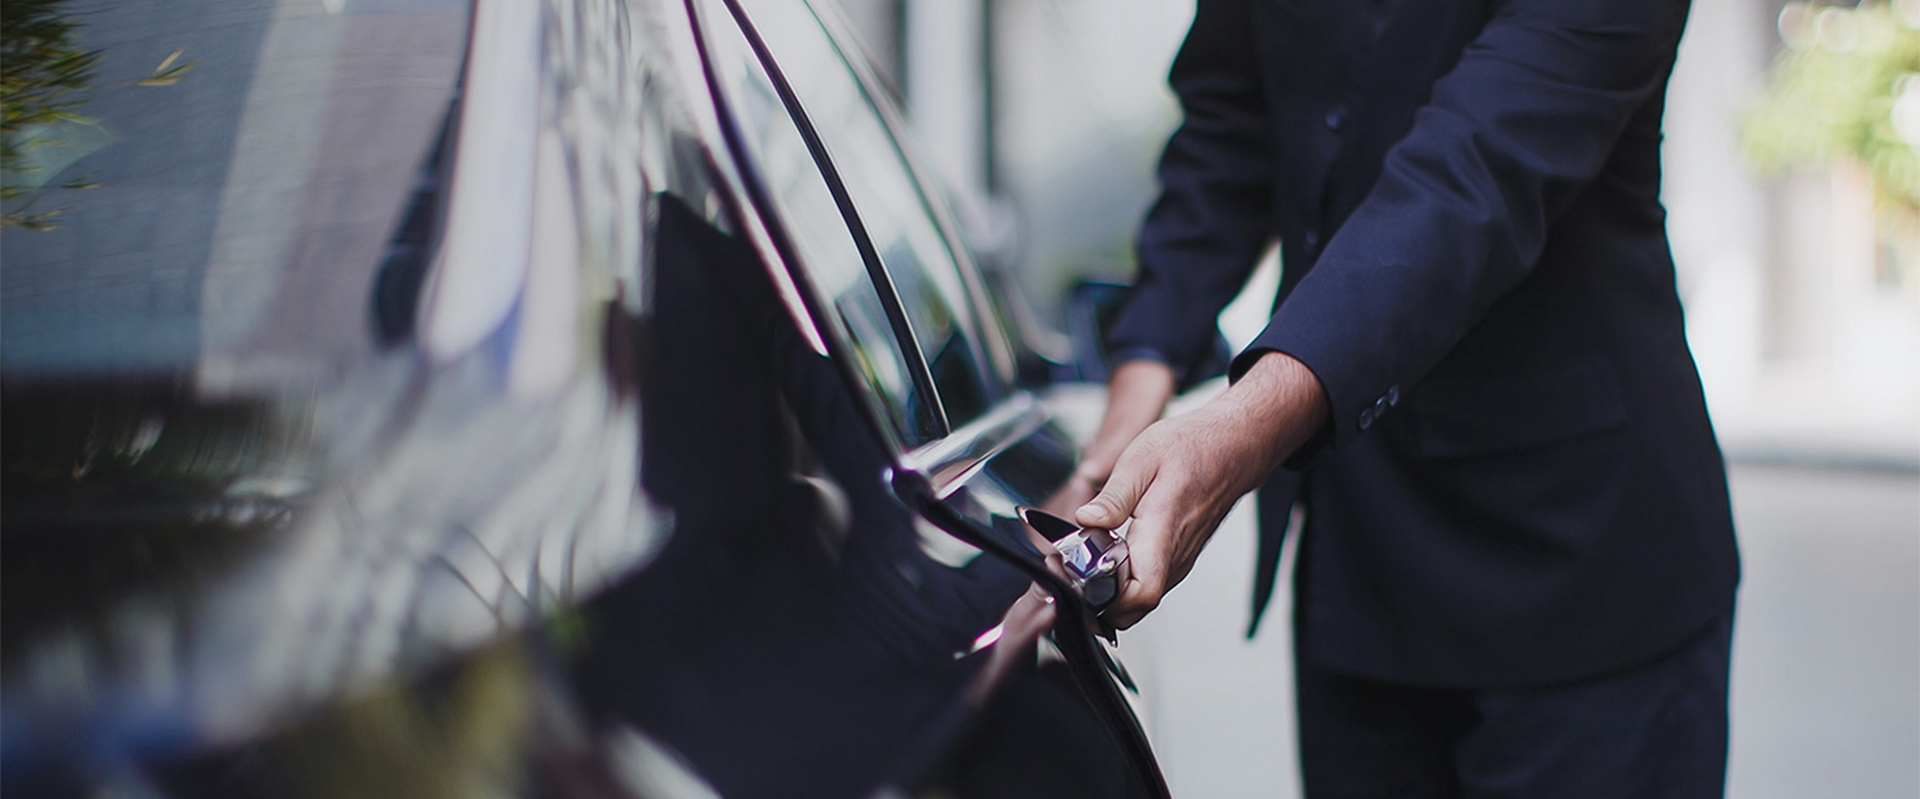
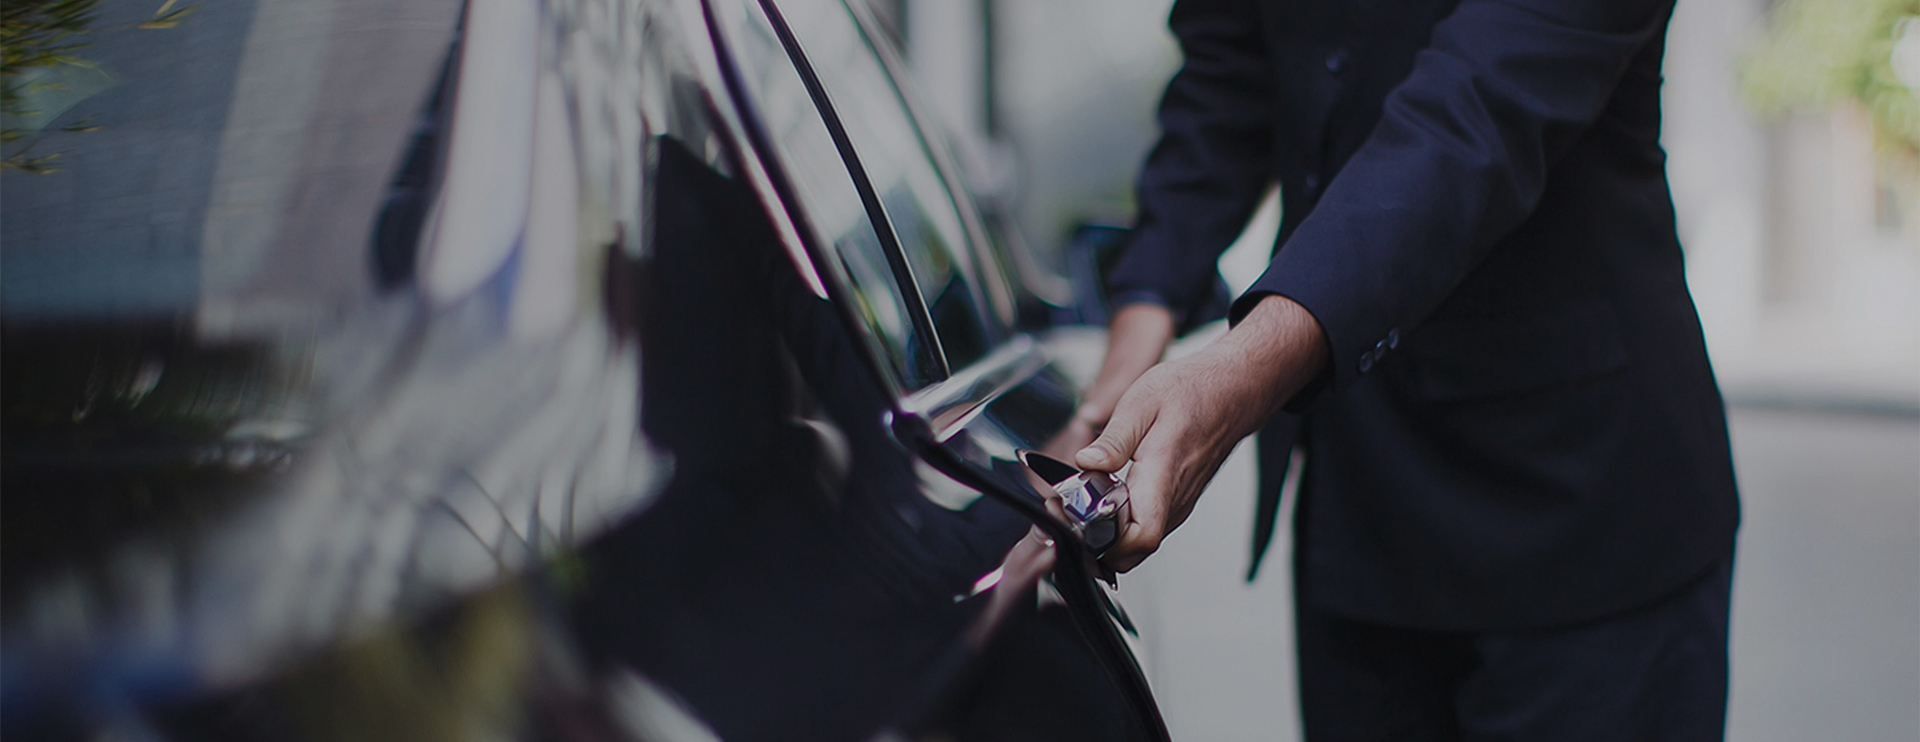
promo

diff --git a/index.html b/index.html
@@ -9,9 +9,6 @@
     <link
       rel="stylesheet"
       href="https://cdnjs.cloudflare.com/ajax/libs/normalize/8.0.1/normalize.min.css"
-      integrity="sha512-NhSC1YmyruXifcj/KFRWoC561YpHpc5Jtzgvbuzx5VozKpWvQ+4nXhPdFgmx8xqexRcpAglTj9sIBWINXa8x5w=="
-      crossorigin="anonymous"
-      referrerpolicy="no-referrer"
     />
     <link rel="stylesheet" href="./css/style.min.css" />
   </head>
@@ -32,25 +29,46 @@
         </nav>
       </div>
     </header>
-    <div class="subheader">
-      <div class="container">
-        <div class="subheader_wrapper">
-          <div class="wrapper_logo">
-            <div class="logo">
-              <img src="./img/logo_subheader.png" alt="#" class="logo_img" />
-              <span class="logo_text">uber777.moscow</span>
+    <section class="promo">
+      <div class="subheader">
+        <div class="container">
+          <div class="subheader_wrapper">
+            <div class="wrapper_logo">
+              <div class="logo">
+                <img src="./img/logo_subheader.png" alt="#" class="logo_img" />
+                <span class="logo_text">uber777.moscow</span>
+              </div>
+              <div class="subheader_text">
+                Официальный партнер Uber в Москве
+              </div>
             </div>
-            <div class="subheader_text">Официальный партнер Uber в Москве</div>
-          </div>
-          <div class="contact">
-            <address>
-              <div class="contact_text">Звоните нам ежедневно</div>
-              <div class="address">8 495 797 09 88</div>
-            </address>
-            <button class="contact_btn">заказать звонок</button>
+            <div class="contact">
+              <address>
+                <div class="contact_text">Звоните нам ежедневно</div>
+                <div class="address">8 495 797 09 88</div>
+              </address>
+              <button class="contact_btn">заказать звонок</button>
+            </div>
           </div>
         </div>
       </div>
-    </div>
+      <div class="container">
+        <h1 class="promo_header">КОМПАНИЯ UBER PARTNERS!</h1>
+        <h2 class="promo_subheader">ПРИГЛАШАЕМ ВОДИТЕЛЕЙ! НА СВОЕМ АВТО!</h2>
+        <div class="promo_descr">
+          Компания UBER динамически развивающаяся. Компания на рынке занимает
+          лидирующее место среди таксомоторных компаний, Компания абсолютно
+          прозрачная вы можете контролировать все процессы у себя в личном
+          кабинете. Бонуcная система.Помимо выполненной работы по заказам,
+          компания начисляет бонусы за пиковое время.
+          <div class="promo_descr_text">
+            Мы одни из партнеров и зарекомендовали себя как одна из лучших
+            команд в городе Москве. Водители у нас зарабатывают от 80000- 120000
+            в месяц.
+          </div>
+        </div>
+        <button class="promo_btn">ОТПРАВИТЬ ЗАЯВКУ!</button>
+      </div>
+    </section>
   </body>
 </html>

diff --git a/css/style.min.css b/css/style.min.css
@@ -3,6 +3,7 @@
   padding: 0;
   -webkit-box-sizing: border-box;
           box-sizing: border-box;
+  font-family: 'Roboto';
 }
 
 .container {
@@ -44,6 +45,9 @@ header .menu_element:not(.start) {
 }
 
 .subheader {
+  position: absolute;
+  top: 0;
+  width: 100%;
   height: 84px;
   background-color: rgba(0, 0, 0, 0.6);
   padding: 16px 0 16px 0;
@@ -126,5 +130,60 @@ header .menu_element:not(.start) {
   width: 178px;
   height: 52px;
   margin-left: 30px;
+}
+
+.promo {
+  position: relative;
+  background: url("../img/bg_banner.jpg") center center/cover no-repeat;
+  height: 748px;
+  padding: 151px 0 132px 0;
+  text-align: center;
+}
+
+.promo_header {
+  font-size: 60px;
+  font-weight: 900;
+  margin: 0;
+  text-transform: uppercase;
+  color: #ffffff;
+}
+
+.promo_subheader {
+  margin-top: 22px;
+  font-size: 36px;
+  font-weight: 700;
+  text-transform: uppercase;
+  color: #ffffff;
+}
+
+.promo_descr {
+  font-size: 18px;
+  line-height: 24px;
+  font-weight: 400;
+  color: #ffffff;
+  margin-top: 23px;
+}
+
+.promo_descr_text {
+  margin-top: 37px;
+}
+
+.promo_btn {
+  font-family: 'Roboto';
+  background-image: -webkit-gradient(linear, left bottom, left top, from(#1eacc7), to(#4ce2ff));
+  background-image: linear-gradient(0deg, #1eacc7 0%, #4ce2ff 100%);
+  border: 0px solid rgba(0, 0, 0, 0.06);
+  border-radius: 5px;
+  -webkit-box-shadow: inset 0px -3px 0px 0px rgba(0, 0, 0, 0.11);
+          box-shadow: inset 0px -3px 0px 0px rgba(0, 0, 0, 0.11);
+  color: #ffffff;
+  text-shadow: 1px 1px 0px rgba(0, 0, 0, 0.2);
+  font-weight: 400;
+  text-transform: uppercase;
+  cursor: pointer;
+  width: 265px;
+  height: 69px;
+  font-size: 18px;
+  margin-top: 115px;
 }
 /*# sourceMappingURL=style.min.css.map */

diff --git a/scss/style.scss b/scss/style.scss
@@ -15,6 +15,7 @@
   margin: 0;
   padding: 0;
   box-sizing: border-box;
+  font-family: 'Roboto';
 }
 
 .container {
@@ -48,6 +49,9 @@ header {
 }
 
 .subheader {
+  position: absolute;
+  top: 0;
+  width: 100%;
   height: 84px;
   background-color: rgba(0, 0, 0, 0.6);
   padding: 16px 0 16px 0;
@@ -106,5 +110,44 @@ header {
         margin-left: 30px;
       }
     }
+  }
+}
+
+.promo {
+  position: relative;
+  background: url('../img/bg_banner.jpg') center center / cover no-repeat;
+  height: 748px;
+  padding: 151px 0 132px 0;
+  text-align: center;
+  &_header {
+    font-size: 60px;
+    font-weight: 900;
+    margin: 0;
+    text-transform: uppercase;
+    color: #ffffff;
+  }
+  &_subheader {
+    margin-top: 22px;
+    font-size: 36px;
+    font-weight: 700;
+    text-transform: uppercase;
+    color: #ffffff;
+  }
+  &_descr {
+    font-size: 18px;
+    line-height: 24px;
+    font-weight: 400;
+    color: #ffffff;
+    margin-top: 23px;
+    &_text {
+      margin-top: 37px;
+    }
+  }
+  &_btn {
+    @include button();
+    width: 265px;
+    height: 69px;
+    font-size: 18px;
+    margin-top: 115px;
   }
 }
